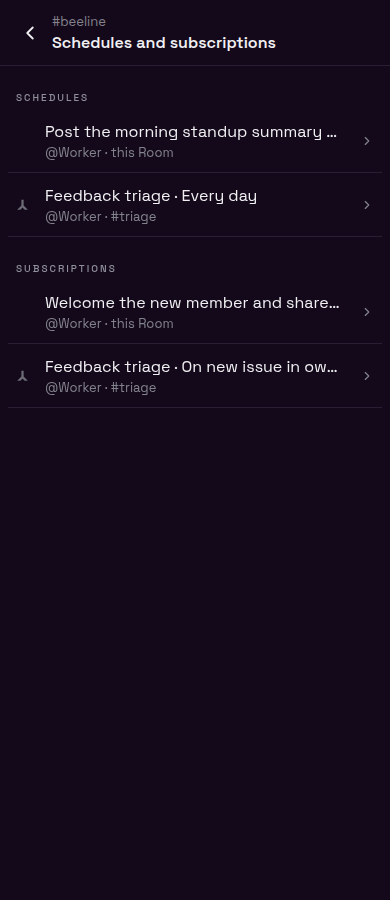
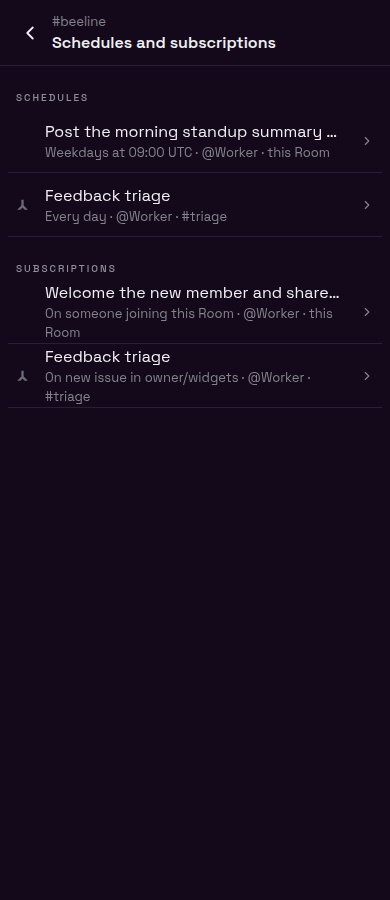
Keep subscription trigger labels visible in list rows

diff --git a/apps/mobile/sources/app/(app)/beeline/settings/schedules.tsx b/apps/mobile/sources/app/(app)/beeline/settings/schedules.tsx
@@ -7,10 +7,12 @@ import { useSafeAreaInsets } from 'react-native-safe-area-context';
 import { StyleSheet } from 'react-native-unistyles';
 import type { RoomScheduleView, RoomSubscriptionView } from '@beeline/api-contract/phone';
 import { displayRoomIndexTitle } from '@/buzz/room-list-row';
+import { scheduleCadenceLabel } from '@/buzz/schedule-cadence';
 import {
   scheduleTitle,
   scheduleWhere,
   subscriptionTitle,
+  subscriptionWhen,
   subscriptionWhere,
   useScheduledWork,
 } from '@/buzz/scheduled-work';
@@ -27,7 +29,7 @@ function first(value: string | string[] | undefined): string | undefined {
 /**
  * Everything that wakes the Room's agents without a human tag: timers and
  * subscriptions. Agents set both up. Each entry is one settings row in the same
- * grammar — what it runs · when it runs, over who · where — and opens its own
+ * grammar — what it runs, then when · who · where — and opens its own
  * detail page. Stopping happens on those pages.
  */
 export default function ScheduledWork() {
@@ -52,7 +54,7 @@ export default function ScheduledWork() {
   const renderSchedule = (schedule: RoomScheduleView) => (
     <SettingsRow
       chevron="right"
-      description={`@${work?.agentNames.get(schedule.agentId) ?? 'Agent'} · ${scheduleWhere(schedule)}`}
+      description={`${scheduleCadenceLabel(schedule.cadence)} · @${work?.agentNames.get(schedule.agentId) ?? 'Agent'} · ${scheduleWhere(schedule)}`}
       key={schedule.id}
       leading={<View style={styles.leadingSlot}>
         {schedule.workflowSlug ? (
@@ -68,7 +70,7 @@ export default function ScheduledWork() {
   const renderSubscription = (subscription: RoomSubscriptionView) => (
     <SettingsRow
       chevron="right"
-      description={`@${work?.agentNames.get(subscription.agentId) ?? 'Agent'} · ${subscriptionWhere(subscription)}`}
+      description={`${subscriptionWhen(subscription)} · @${work?.agentNames.get(subscription.agentId) ?? 'Agent'} · ${subscriptionWhere(subscription)}`}
       key={subscription.id}
       leading={<View style={styles.leadingSlot}>
         {subscription.workflowSlug ? (

diff --git a/apps/mobile/sources/app/(app)/beeline/settings/schedules.test.tsx b/apps/mobile/sources/app/(app)/beeline/settings/schedules.test.tsx
@@ -58,12 +58,12 @@ it('lists every entry as one row in the shared grammar, each opening its own pag
   const tree = await render(<ScheduledWork />);
   try {
     const row = (testID: string) => tree.root.findByProps({ testID });
-    expect(row('scheduled-work-daily').props).toMatchObject({ title: 'Morning summary · Every hour', description: '@Hoots · this Room', chevron: 'right' });
-    expect(row('scheduled-work-video').props).toMatchObject({ title: 'Post youtube video · Every day', description: '@Hoots · #video' });
+    expect(row('scheduled-work-daily').props).toMatchObject({ title: 'Morning summary', description: 'Every hour · @Hoots · this Room', chevron: 'right' });
+    expect(row('scheduled-work-video').props).toMatchObject({ title: 'Post youtube video', description: 'Every day · @Hoots · #video' });
     expect(row('scheduled-work-video').props.leading).toBeTruthy();
     expect(row('scheduled-work-daily').props.leading).toBeTruthy();
     expect(row('subscription-sub').props.leading).toBeTruthy();
-    expect(row('subscription-sub').props).toMatchObject({ title: 'Triage new issues · On new issue in owner/widgets', description: '@Hoots · this Room' });
+    expect(row('subscription-sub').props).toMatchObject({ title: 'Triage new issues', description: 'On new issue in owner/widgets · @Hoots · this Room' });
     act(() => row('scheduled-work-daily').props.onPress());
     act(() => row('scheduled-work-video').props.onPress());
     act(() => row('subscription-sub').props.onPress());

diff --git a/apps/mobile/sources/app/(app)/beeline/settings/schedules.browser.test.ts b/apps/mobile/sources/app/(app)/beeline/settings/schedules.browser.test.ts
@@ -131,15 +131,15 @@ describe.skipIf(!existsSync(CHROME))('Schedules and subscriptions pages in a bro
     });
     expect(page.text.slice(2)).toEqual([
       'SCHEDULES',
-      "Summarize yesterday's merged PRs for the Room… · Weekdays at 09:00 UTC",
-      '@Hoots · this Room',
-      'Feedback triage · Daily at 14:00 America/New_York',
-      '@Ruby · #issues-triage',
+      "Summarize yesterday's merged PRs for the Room…",
+      'Weekdays at 09:00 UTC · @Hoots · this Room',
+      'Feedback triage',
+      'Daily at 14:00 America/New_York · @Ruby · #issues-triage',
       'SUBSCRIPTIONS',
-      'Triage incoming work · On new pull request in owner/widgets',
-      '@Ruby · this Room',
-      'Feedback triage · On someone joining this Room',
-      '@Ruby · #issues-triage',
+      'Triage incoming work',
+      'On new pull request in owner/widgets · @Ruby · this Room',
+      'Feedback triage',
+      'On someone joining this Room · @Ruby · #issues-triage',
     ]);
     expect(page.glyphs).toEqual(['scheduled-work-glyph-video', 'subscription-glyph-sub-2']);
     expect(page.loadedFonts).toEqual(expect.arrayContaining(['SpaceGrotesk-Regular', 'SpaceGrotesk-Medium', 'SpaceGrotesk-SemiBold']));

diff --git a/apps/mobile/sources/buzz/scheduled-work.ts b/apps/mobile/sources/buzz/scheduled-work.ts
@@ -35,12 +35,11 @@ export function scheduleWhere(schedule: Pick<RoomScheduleView, 'corner'>): strin
   return schedule.corner ? `#${schedule.corner.name}` : 'this Room';
 }
 
-/** Line 1 of a schedule row: what it runs · when it runs. */
+/** Line 1 of a schedule row: what it runs, ellipsized by the row if needed. */
 export function scheduleTitle(schedule: RoomScheduleView): string {
-  const what = schedule.workflowSlug
+  return schedule.workflowSlug
     ? workflowDisplayName(schedule.workflowSlug)
     : promptLead(schedule.message);
-  return `${what} · ${scheduleCadenceLabel(schedule.cadence)}`;
 }
 
 /** The detail page's Runs row: the cadence and the next firing. */
@@ -51,10 +50,9 @@ export function scheduleRuns(schedule: RoomScheduleView): string {
 }
 
 export function subscriptionTitle(subscription: RoomSubscriptionView): string {
-  const what = subscription.workflowSlug
+  return subscription.workflowSlug
     ? workflowDisplayName(subscription.workflowSlug)
     : promptLead(subscription.prompt ?? 'React to this event');
-  return `${what} · ${subscriptionWhen(subscription)}`;
 }
 
 export function subscriptionWhen(subscription: RoomSubscriptionView): string {

diff --git a/evidence/subscriptions/README.md b/evidence/subscriptions/README.md
@@ -3,7 +3,7 @@
 These 390 × 900 frames render the real list and detail components with sample Room responses:
 
 - `main-baseline.png`: the merged main Schedules list rendered with the same font setup for comparison.
-- `list.png`: one item in each trigger/action quadrant, grouped as Schedules and Subscriptions.
+- `list.png`: one item in each trigger/action quadrant, grouped as Schedules and Subscriptions. Line one ellipsizes only the action; line two starts with the complete cadence or event and then names the agent and Room.
 - `schedule-prompt.png`, `schedule-workflow.png`, `subscription-prompt.png`, `subscription-workflow.png`: the common When, Agent, Where, Does, Stop detail grammar. Workflow actions show the saved steps on the workflow rail.
 - `stop-confirm.png`: the second step before stopping a subscription.
 - `empty.png`: first-use list.
